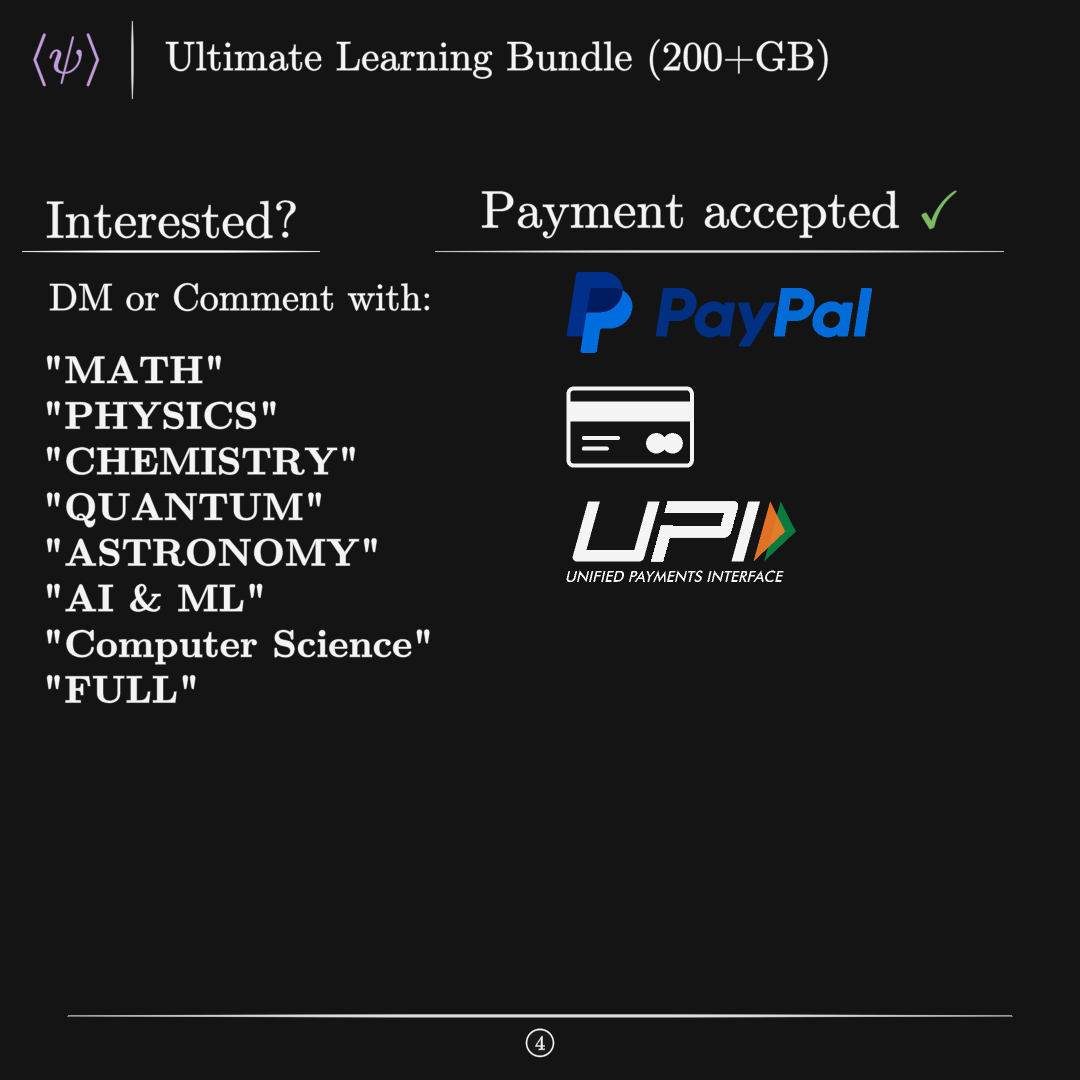
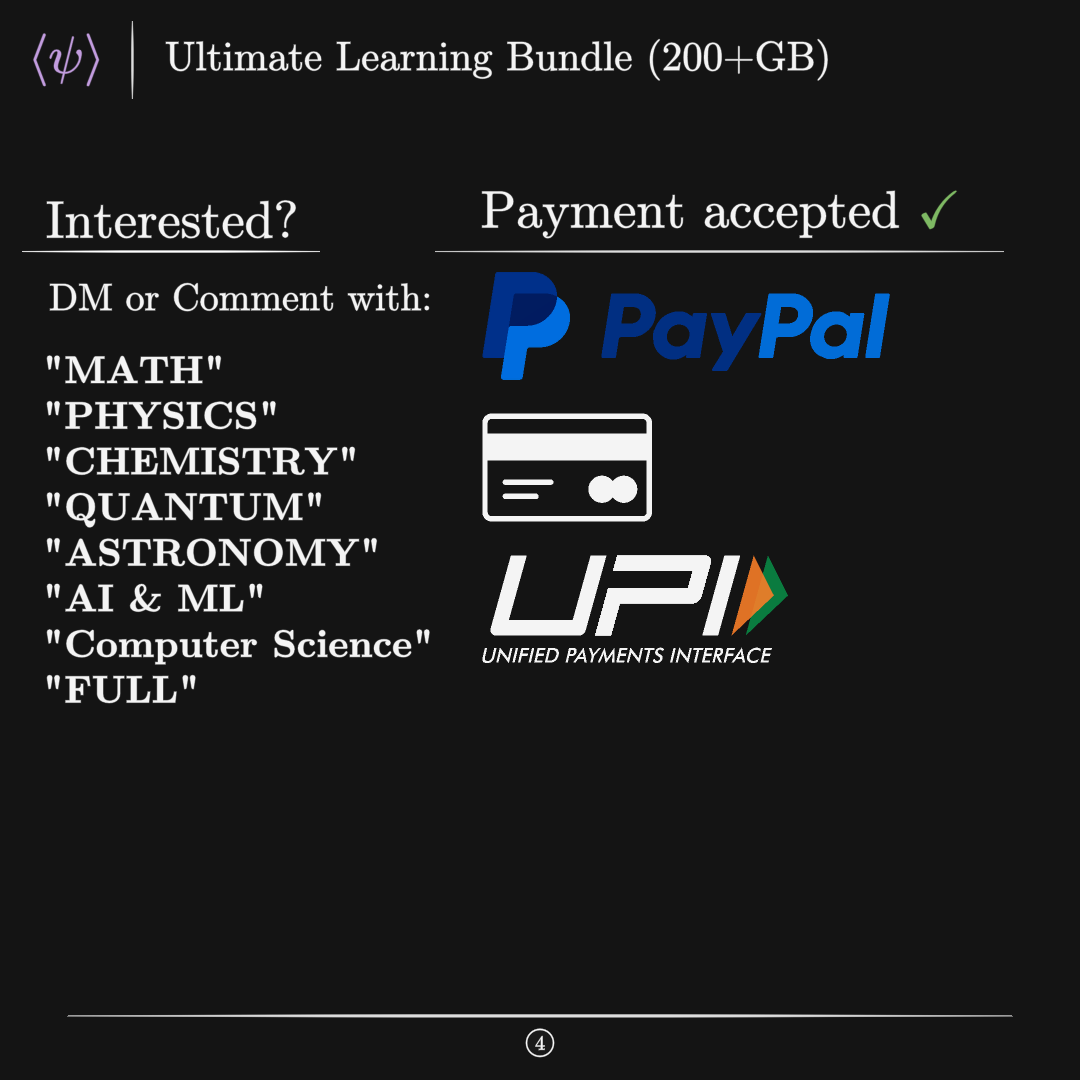
f

Changed region(s): [[0.4278, 0.2444, 0.825, 0.6111]]

diff --git a/test.py b/test.py
@@ -187,9 +187,9 @@ class Payment(PaidTemplate):
             SVGMobject("debit.svg").set_color(WHITE),
             SVGMobject("upi.svg")
         )
-        svgs.scale(0.3)
+        svgs.scale(0.4)
         svgs.arrange(DOWN, buff=MED_SMALL_BUFF, aligned_edge=LEFT)
-        svgs.next_to(payment, DOWN)
+        svgs.next_to(payment, DOWN, aligned_edge=LEFT)
         svgs[-1][0].set_color(WHITE)
         svgs[-1][1].set_color(WHITE)
         self.add(svgs)
